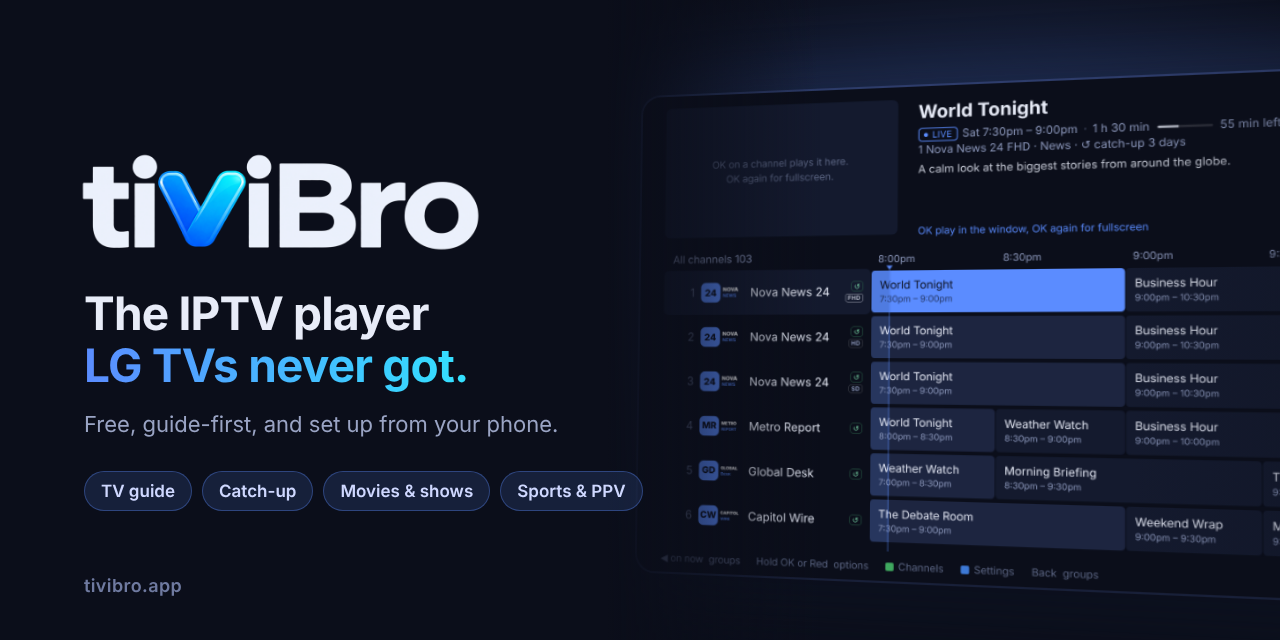
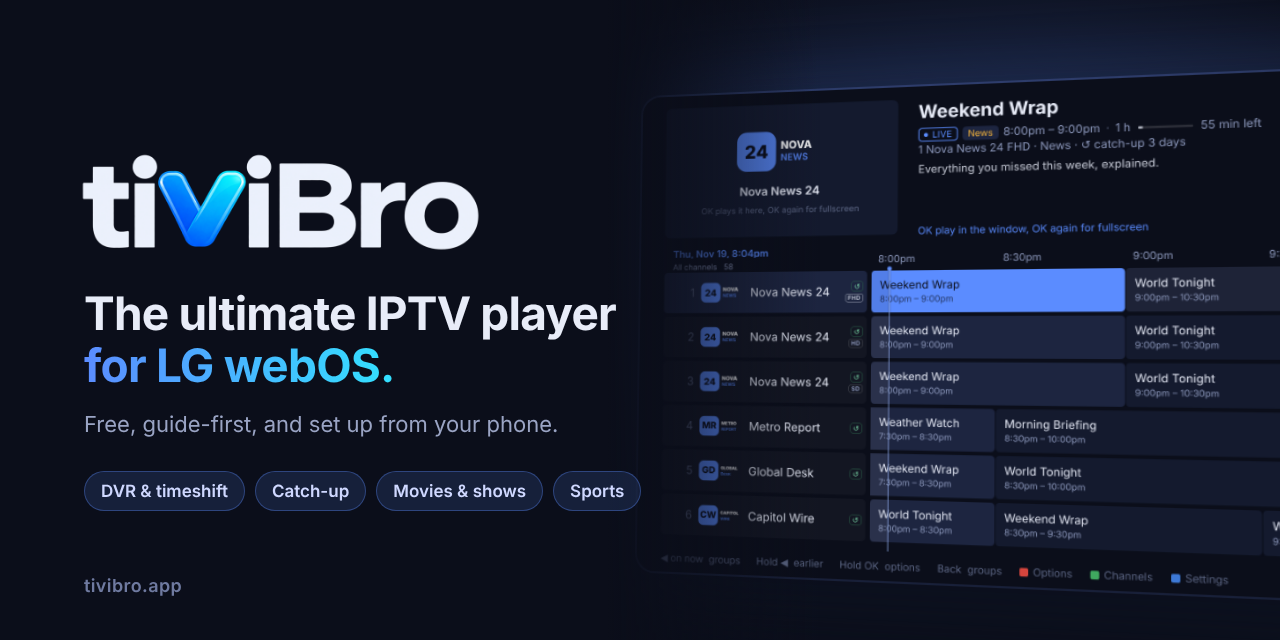
Tagline: the ultimate IPTV player for LG webOS
README, site, wiki home, app description and the social preview (now with DVR and timeshift).

diff --git a/site/index.html b/site/index.html
@@ -15,12 +15,12 @@
 <link rel="apple-touch-icon" href="img/icon-180.png">
 <meta property="og:type" content="website">
 <meta property="og:url" content="https://tivibro.app/">
-<meta property="og:title" content="TiviBro: the IPTV player LG TVs never got">
+<meta property="og:title" content="TiviBro: the ultimate IPTV player for LG webOS">
 <meta property="og:description" content="A free, guide-first IPTV player for LG webOS TVs, with a free DVR: record, pause and rewind live TV.  Set it up from your phone.  Built to feel like TiviMate and go further.">
 <meta property="og:image" content="https://tivibro.app/img/social-preview.png">
 <meta property="og:image:width" content="1280">
 <meta property="og:image:height" content="640">
-<meta property="og:image:alt" content="TiviBro: the IPTV player LG TVs never got.  Free, guide-first, and set up from your phone.">
+<meta property="og:image:alt" content="TiviBro: the ultimate IPTV player for LG webOS.  Free, guide-first, and set up from your phone.">
 <meta name="twitter:card" content="summary_large_image">
 <link rel="preconnect" href="https://fonts.googleapis.com">
 <link rel="preconnect" href="https://fonts.gstatic.com" crossorigin>
@@ -111,7 +111,7 @@
   <div class="wrap hero-grid">
     <div class="hero-copy reveal">
       <a class="pill" href="#sports-new"><span class="dot"></span><span id="ver">0.6.0 alpha</span><span class="sep">·</span><b>New: Sports, with live scores for your teams</b> <span aria-hidden="true">→</span></a>
-      <h1>The IPTV player <span class="grad">LG TVs never got.</span></h1>
+      <h1>The ultimate IPTV player <span class="grad">for LG webOS.</span></h1>
       <p class="lead">A free, guide-first IPTV player for LG webOS.  Bring your own Xtream Codes, M3U or Stalker portal subscription; TiviBro gives it a real TV guide, catch-up, <b>a free DVR and timeshift</b> (record from the guide, pause and rewind any live channel), movies and shows, and an editor to tame thousands of channels.  Built to feel like TiviMate, and go further.</p>
       <div class="cta">
         <a class="btn primary lg" href="#install">Install on your LG TV <svg class="i" width="18" height="18"><use href="#i-arrow"/></svg></a>

diff --git a/brand/social-preview.html b/brand/social-preview.html
@@ -11,14 +11,14 @@ html,body{margin:0;width:1280px;height:640px;overflow:hidden;background:#0B0E1A;
 h1{color:#E8ECF8;font-size:46px;line-height:1.12;font-weight:700;letter-spacing:-.8px;margin:34px 0 0}
 h1 span{background:linear-gradient(90deg,#5B8CFF,#33E1FF);-webkit-background-clip:text;color:transparent}
 p{color:#9AA4C4;font-size:22px;margin:18px 0 0;line-height:1.45}
-.chips{margin-top:30px;display:flex;gap:10px}
-.chip{color:#cfd8ff;font-size:17px;font-weight:600;padding:9px 16px;border-radius:999px;background:rgba(91,140,255,.14);border:1px solid rgba(91,140,255,.35)}
+.chips{margin-top:30px;display:flex;flex-wrap:wrap;gap:10px;width:600px}
+.chip{white-space:nowrap;color:#cfd8ff;font-size:17px;font-weight:600;padding:9px 16px;border-radius:999px;background:rgba(91,140,255,.14);border:1px solid rgba(91,140,255,.35)}
 .url{position:absolute;left:84px;bottom:44px;color:#6f7aa0;font-size:18px;font-weight:600;letter-spacing:.4px}
 </style></head><body><div class="bg"></div>
 <div class="tv"><img src="../docs/screenshots/tv-guide.png"></div><div class="fade"></div>
 <div class="txt"><img class="wm" src="../site/img/wordmark.png">
-<h1>The IPTV player<br><span>LG TVs never got.</span></h1>
+<h1>The ultimate IPTV player<br><span>for LG webOS.</span></h1>
 <p>Free, guide-first, and set up from your phone.</p>
-<div class="chips"><div class="chip">TV guide</div><div class="chip">Catch-up</div><div class="chip">Movies &amp; shows</div><div class="chip">Sports &amp; PPV</div></div></div>
+<div class="chips"><div class="chip">DVR &amp; timeshift</div><div class="chip">Catch-up</div><div class="chip">Movies &amp; shows</div><div class="chip">Sports</div></div></div>
 <div class="url">tivibro.app</div>
 </body></html>

diff --git a/site/hb/description.html b/site/hb/description.html
@@ -14,7 +14,7 @@
 </div>
 <p><strong>TiviBro is in alpha testing on real LG TVs (webOS 4 to 25), with beta next.  Expect some rough edges, and keep a backup (phone app or web editor, Backups and restore points) before updating.</strong></p>
 <h1>TiviBro</h1>
-<p>The IPTV player LG TVs never got.  A free, guide-first player for your own Xtream Codes, M3U or Stalker portal subscription, built to feel like TiviMate and go further.  In English, Spanish, Portuguese and Russian.  TiviBro provides no channels or streams.</p>
+<p>The ultimate IPTV player for LG webOS.  A free, guide-first player for your own Xtream Codes, M3U or Stalker portal subscription, built to feel like TiviMate and go further.  In English, Spanish, Portuguese and Russian.  TiviBro provides no channels or streams.</p>
 <h2>Features</h2>
 <ul>
 <li><strong>Sports</strong>: a Sports screen of today's games with live scores and logos, each tied to the channel of yours that has it, and a page per game with the box score, leaders and standings.  Your teams' live scores sit in the corner while you watch something else, and a close finish asks whether to switch.  Pay-per-view and sports passes become guide entries at the real time, and My teams sits at the top of the guide.</li>

diff --git a/scripts/gen-manifest.js b/scripts/gen-manifest.js
@@ -52,7 +52,7 @@ const entry = {
   iconUri: icon,
   manifestUrl: dl + manifestName,
   manifest: manifest,
-  shortDescription: (pre ? 'Test build ' + full + ': ' : '') + 'The IPTV player LG TVs never got',
+  shortDescription: (pre ? 'Test build ' + full + ': ' : '') + 'The ultimate IPTV player for LG webOS',
   // The Homebrew Channel's details page: screenshots and the formatted description (site/hb/description.html).
   fullDescriptionUrl: 'https://tivibro.app/hb/description.html',
   requirements: { webosRelease: '>=4.0' },

diff --git a/docs/wiki/Home.md b/docs/wiki/Home.md
@@ -1,6 +1,6 @@
 <p align="center"><img src="https://github.com/ohmybahgosh/TiviBro/raw/main/logos/clean/tivibro-wordmark.png" width="380" alt="tiviBro"></p>
 
-<p align="center"><b>The IPTV player LG TVs never got.</b><br>A free, guide-first IPTV player for LG webOS, built to feel like TiviMate and go further.<br><a href="https://tivibro.app">tivibro.app</a></p>
+<p align="center"><b>The ultimate IPTV player for LG webOS.</b><br>A free, guide-first IPTV player for LG webOS, built to feel like TiviMate and go further.<br><a href="https://tivibro.app">tivibro.app</a></p>
 
 <p align="center"><a href="https://github.com/ohmybahgosh/TiviBro/raw/main/docs/media/guide.mp4"><img src="https://github.com/ohmybahgosh/TiviBro/raw/main/docs/media/guide.gif" width="100%" alt="The TiviBro guide"></a></p>
 

diff --git a/README.md b/README.md
@@ -6,7 +6,7 @@
 </p>
 
 <p align="center">
-  <b>The IPTV player LG TVs never got.</b><br>
+  <b>The ultimate IPTV player for LG webOS.</b><br>
   A free, open-source IPTV player for LG webOS TVs, built to feel like TiviMate and go further.<br>
   Bring your own Xtream Codes, M3U or Stalker portal subscription.<br>
   <b>Free DVR and timeshift:</b> record from the guide to a USB drive, and pause and rewind any live channel, not only catch-up ones.
